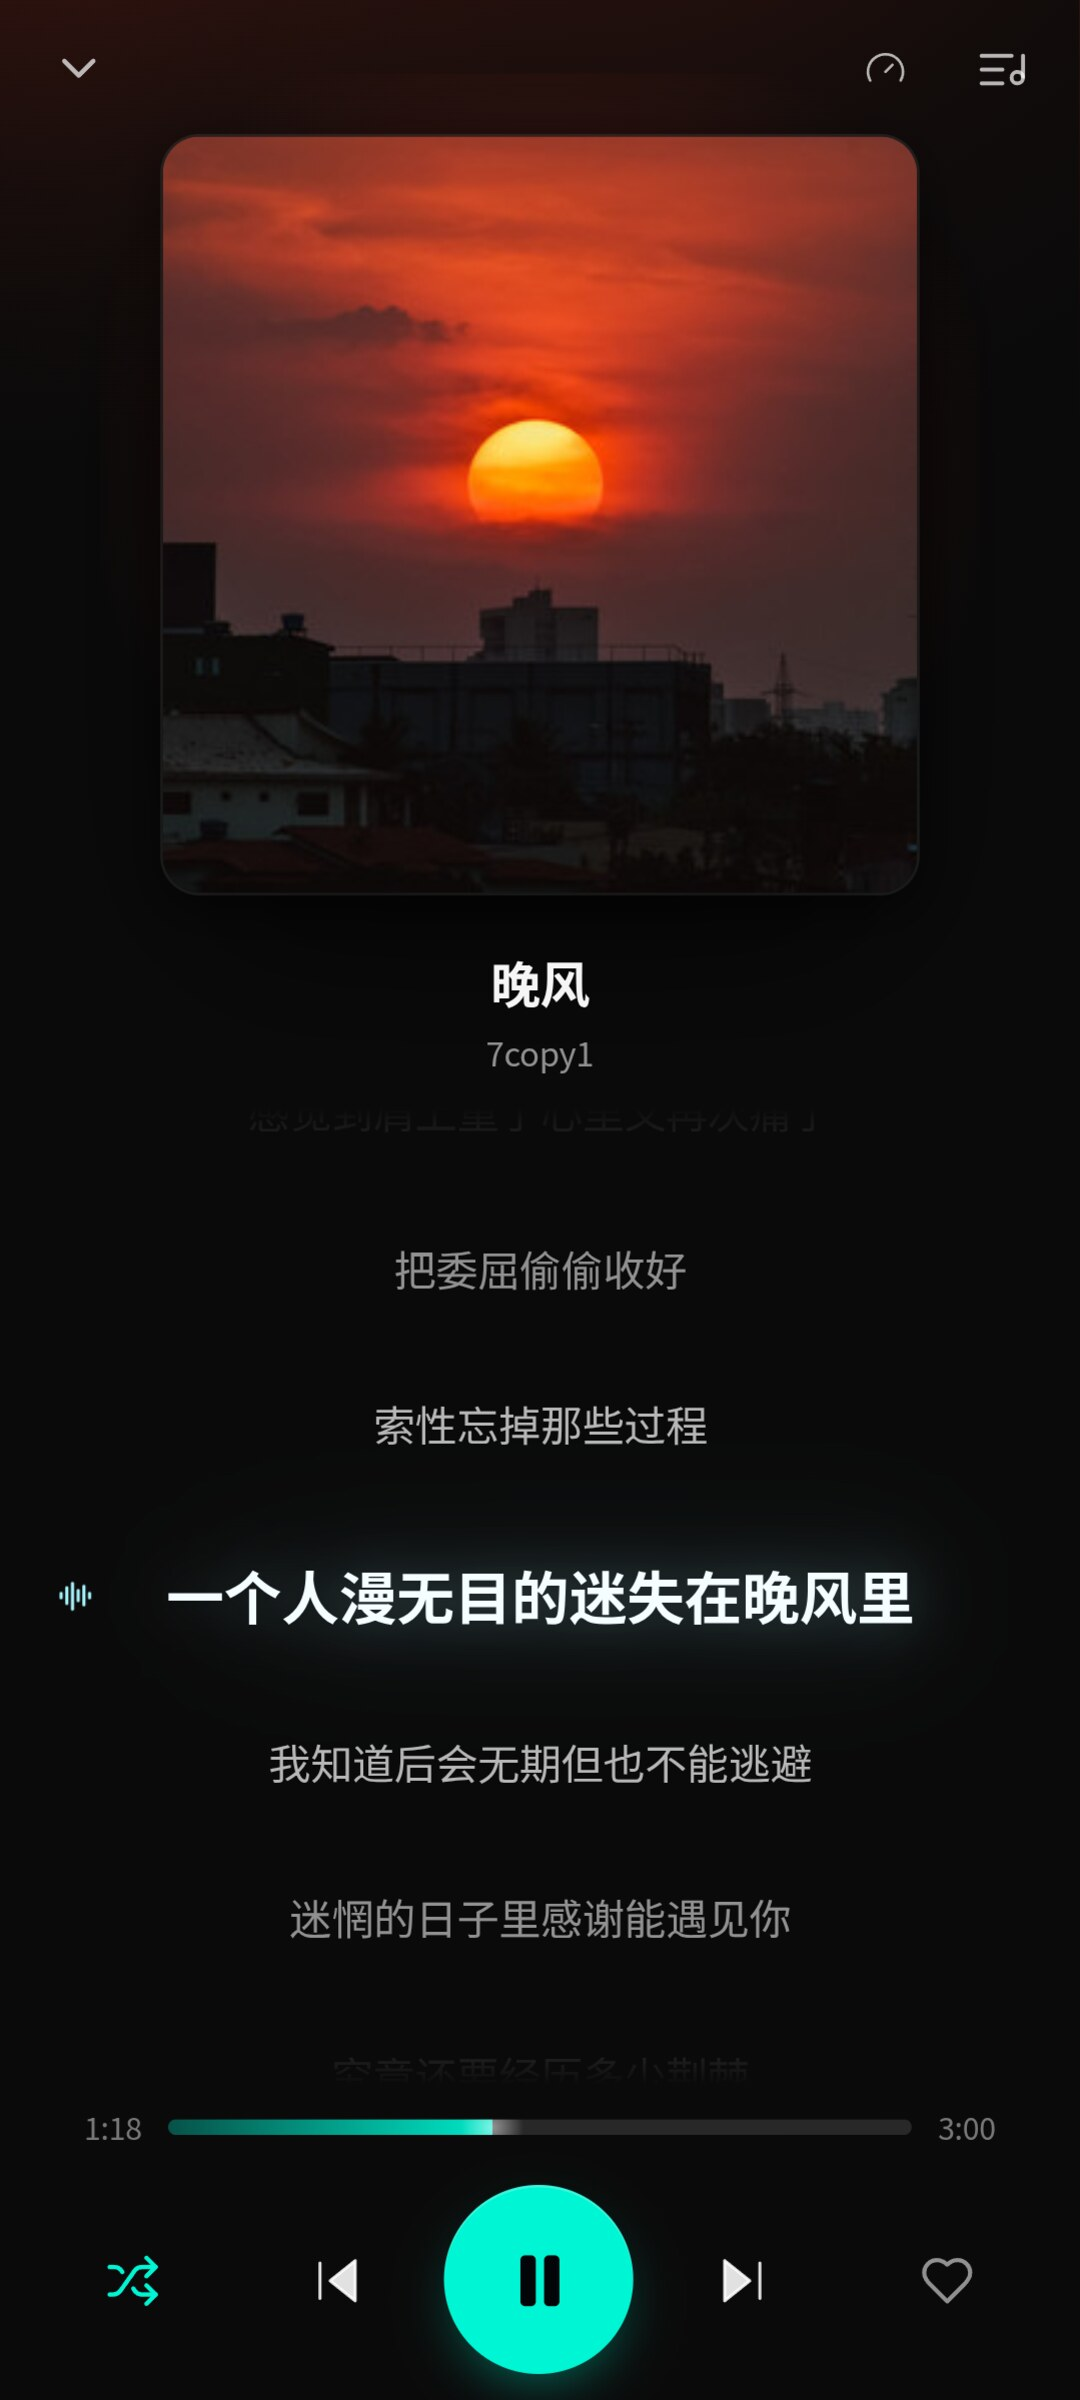
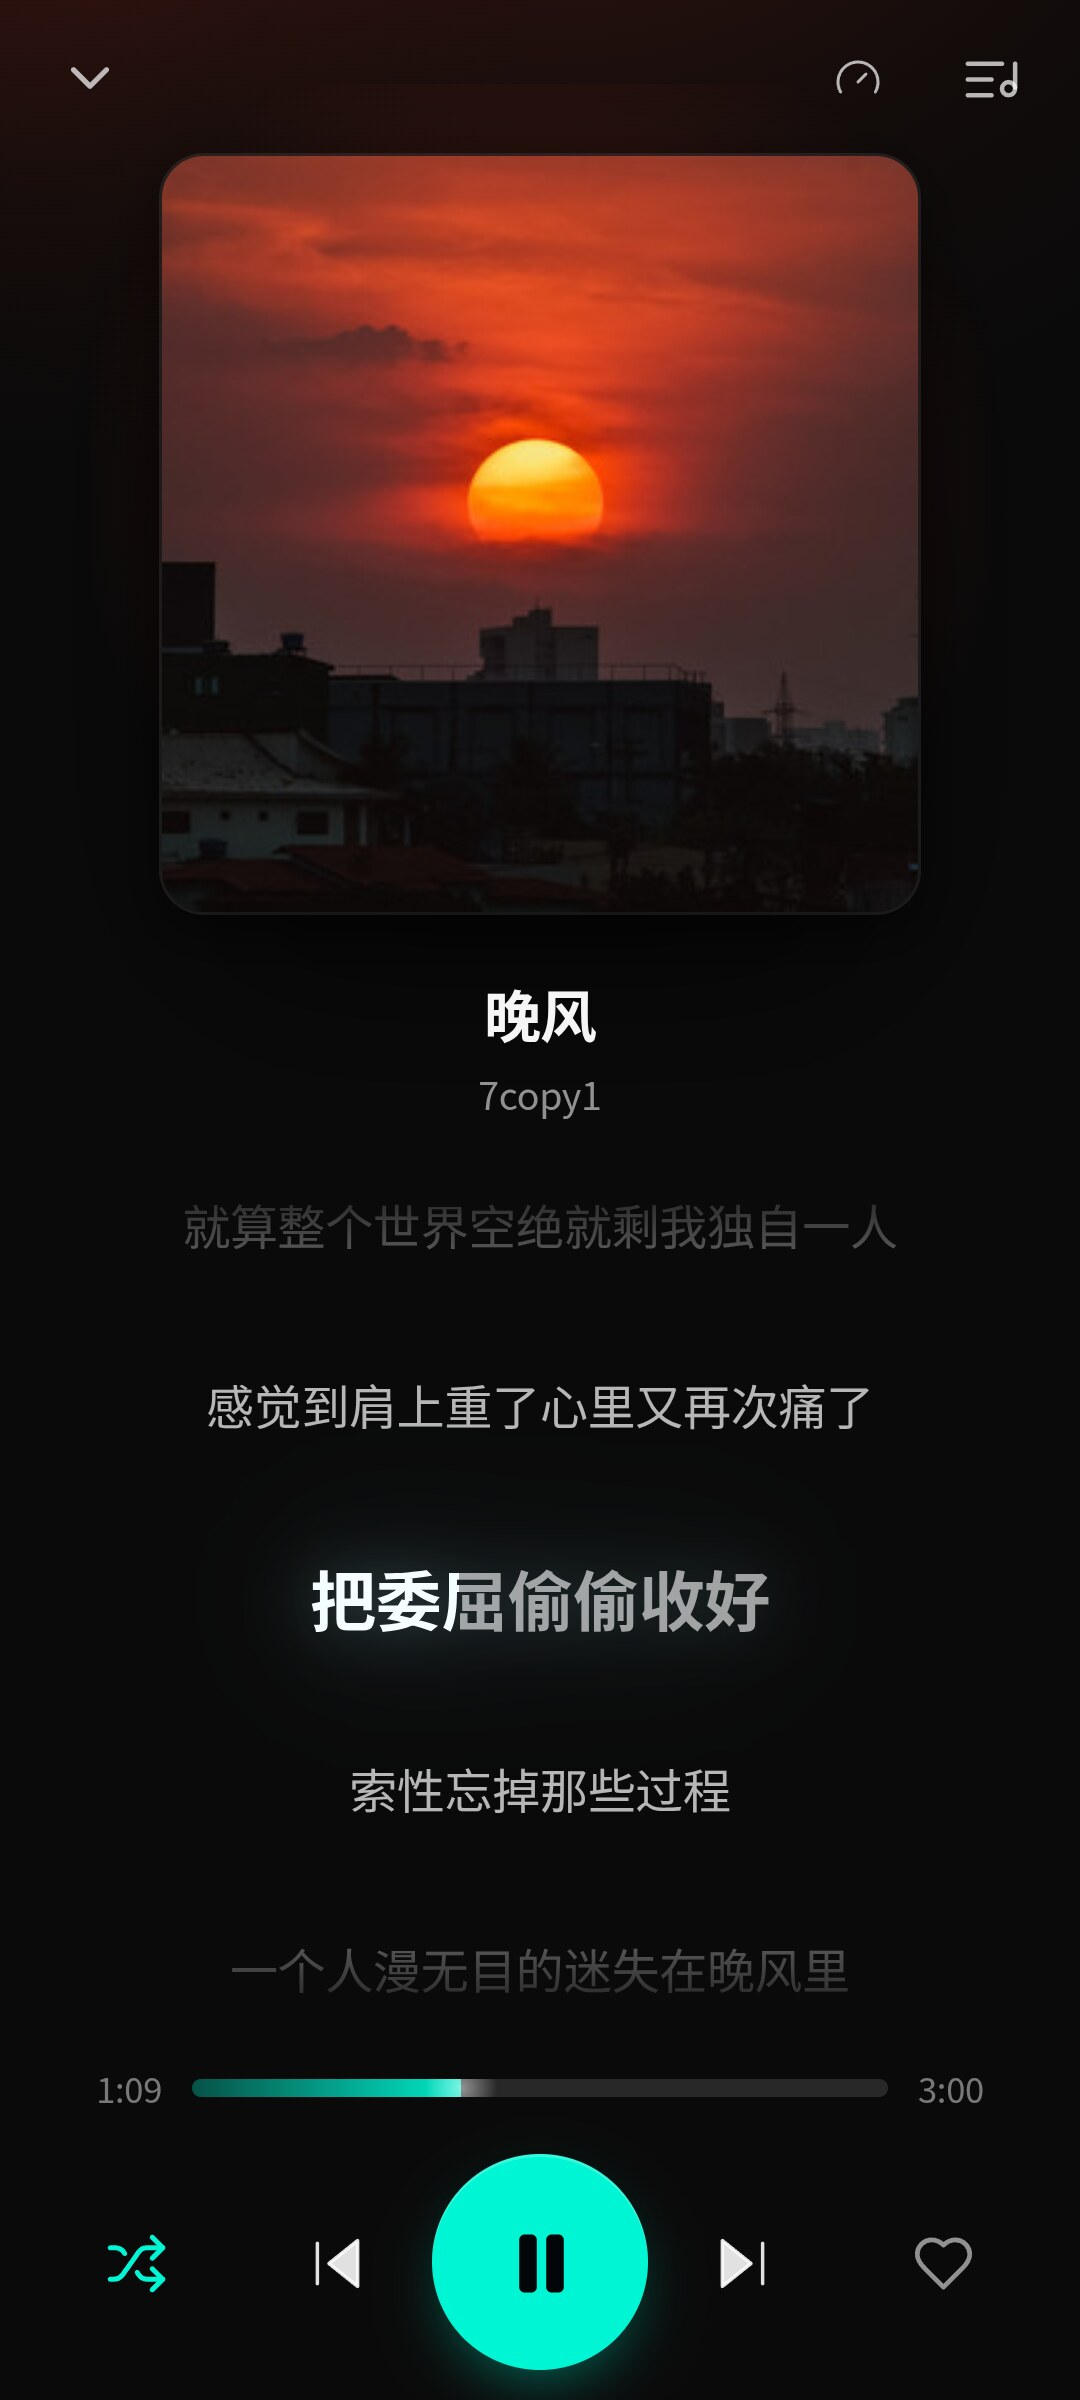
docs(readme): 重写中英 README 并把四张截图更新到 0.8.12
README 补齐这半年落地的能力与入口：曲库（本地/WebDAV/SMB/SFTP、加密音频）、
在线（协议源 + 洛雪脚本、聚合搜索兜底）、歌单与收藏同步（WebDAV / 局域网一键配对）、
播放（逐字歌词、音频焦点）、插件体系、应用内更新；新增「下载与安装」真产物表、
目录结构、文档索引与反馈入口。

截图重截：桌面三张 1440x960@2x 出 2400x1600（播放中、当前歌词行点亮），
移动端走 ?ui=mobile 真实外壳 360x800@3 出 1080x2400，曲目为真实的晚风/7copy1。

diff --git a/README.en.md b/README.en.md
@@ -6,6 +6,7 @@
   <strong>Aurora Music</strong> — a cross-platform music player for desktop (Linux / Windows / macOS) and Android, with one shared UI.<br/>
   The desktop app is Electron + React; the mobile app is packaged with Capacitor and hands playback to a native engine.<br/>
   <img src="https://img.shields.io/badge/license-PolyForm%20Noncommercial%201.0.0-blue" alt="PolyForm Noncommercial License 1.0.0">
+  <img src="https://img.shields.io/badge/platform-Linux%20%7C%20Windows%20%7C%20macOS%20%7C%20Android-lightgrey" alt="Platforms">
   &nbsp;·&nbsp; <a href="./README.md">中文说明</a>
 </p>
 
@@ -13,7 +14,7 @@
 
 ## Screenshots
 
-<p align="center"><img src="./screenshots/hall.jpg" width="760" alt="Discover"></p>
+<p align="center"><img src="./screenshots/hall.jpg" width="760" alt="Library"></p>
 
 <table align="center"><tr>
   <td><img src="./screenshots/detail.jpg" width="520" alt="Now playing"></td>
@@ -26,13 +27,30 @@
 
 ## Overview
 
-A player that brings its own library management, online search and multi-device sync: local folders and WebDAV both go into your collection, online playback uses the music source you configure, and playlists and favorites sync across devices.
+A player that brings its own library management, online search and multi-device sync: local folders, WebDAV and network storage all go into your collection, online playback uses the music source you configure, and playlists and favorites sync across devices.
 
-- **Library** — scan local folders or WebDAV media libraries, indexed progressively and playable offline
-- **Online** — search / preview / download / cache; bring your own source, either the HTTP protocol or an LX Music script, and a script-only setup can still search (built-in aggregate-search fallback)
-- **Playlists & favorites** — manage playlists, import and export M3U; sync across devices over WebDAV or direct LAN with one-tap pairing
-- **Playback** — LRC lyrics, queue with repeat / shuffle, speed control, sleep timer; configurable audio-focus behavior on both desktop and Android
-- **Consistent everywhere** — tray playback on desktop, foreground-service playback on Android; Simplified Chinese and English
+- **Library** — scan local folders, WebDAV or SMB / SFTP network storage; indexed progressively and playable offline, with a prompt (and a fresh copy) when an encrypted track turns up
+- **Online** — search / preview / download / cache; bring your own source, either an HTTP protocol source or an LX Music script, and a script-only setup can still search (built-in aggregate-search fallback), with cross-source address resolution and platform detection from the track URL
+- **Playlists & favorites** — manage playlists, import and export M3U; sync across devices over WebDAV or direct LAN, including one-tap pairing (the code never lands in your hands or on the wire), with per-track conflict handling for favorites
+- **Playback** — word-by-word LRC lyrics, spectrum visualizer, queue with repeat / shuffle, speed control, sleep timer; MPRIS and tray on desktop, foreground-service playback on Android, configurable audio-focus behavior on both
+- **Plugin system** — sources, storage and sync are all plugins; a missing capability is "method absent", never a shape check on the caller side
+- **Consistent everywhere** — one UI for desktop, phones and older in-car WebViews; Simplified Chinese and English, following the system locale
+- **Self-updating** — checks the latest GitHub release, matches the asset for your platform and verifies its sha256 before downloading
+
+---
+
+## Download
+
+Released builds live in [Releases](https://github.com/yib0601/aurora-music/releases):
+
+| Platform | Assets | Notes |
+| --- | --- | --- |
+| Linux | `.AppImage` / `.deb` / `.rpm` | AppImage is portable; the baseline is glibc 2.35 (Ubuntu 22.04) |
+| Windows | `Aurora-Music-<version>.exe` | NSIS installer, x64, install directory selectable |
+| macOS | `Aurora-Music-<version>-arm64.dmg` | Apple Silicon, ad-hoc signed — allow it once under Privacy & Security |
+| Android | `app-debug.apk` | Debug-signed; versionCode increases monotonically so it upgrades in place |
+
+"Settings → About" inside the app also checks for updates and fetches the matching asset.
 
 ---
 
@@ -46,9 +64,55 @@ pnpm dev              # desktop app (Electron + Vite HMR)
 pnpm dev:app          # web UI only
 ```
 
-Requirements: Node.js ≥ 20, pnpm ≥ 9.15; Android builds additionally need JDK 17+ and the Android SDK.
+Requirements: Node.js ≥ 20, pnpm 9.15 (pinned via `packageManager`); Android builds additionally need JDK 17+ and the Android SDK.
 
-The music-source protocol, playlist sync, plugin system, development and packaging are documented in [docs/](./docs/) (Chinese).
+Other entry points:
+
+```bash
+pnpm --filter @aurora/shared test    # source protocol, LX host and other pure logic
+pnpm --filter @aurora/app test       # renderer and mobile cache persistence
+pnpm --filter @aurora/app lint       # renderer eslint
+pnpm build:deb                       # build a deb (via build-deb.sh)
+pnpm build:android                   # build the release APK
+pnpm verify:webview                  # in-car WebView compatibility lock (build first)
+```
+
+See [docs/development.md](./docs/development.md) and [docs/desktop-packaging.md](./docs/desktop-packaging.md) for details (Chinese).
+
+---
+
+## Layout
+
+```
+packages/
+  app/       React renderer: pages, components, state, i18n bindings (desktop and mobile)
+  shared/    Cross-platform logic: source protocol, LX host, cover matching, encrypted audio, lyrics, i18n core
+  desktop/   Electron main: windows, tray, MPRIS, IPC, SQLite library
+  mobile/    Capacitor project plus the Android native playback service (Kotlin)
+docs/        Protocol and architecture documents (Chinese)
+```
+
+---
+
+## Docs
+
+| Document | What it covers |
+| --- | --- |
+| [music-sources.md](./docs/music-sources.md) | Source protocol: HTTP sources and LX scripts side by side |
+| [plugins.md](./docs/plugins.md) | Plugin contract: capability declaration and what a missing method means |
+| [plugin-system.md](./docs/plugin-system.md) | Plugin layering, origins and the install path |
+| [plugin-capabilities.md](./docs/plugin-capabilities.md) | What the host injects, and how the built-in source became a plugin |
+| [storage-protocols.md](./docs/storage-protocols.md) | Why SMB / SFTP are plugins rather than built-ins |
+| [playlist-sync.md](./docs/playlist-sync.md) | Playlist and favorite sync: WebDAV and direct LAN |
+| [i18n.md](./docs/i18n.md) | How copy is produced, passed and rendered |
+| [development.md](./docs/development.md) | Tests, lint, in-car WebView lock, packaging and release |
+| [design-system.md](./docs/design-system.md) / [style-sheet.md](./docs/style-sheet.md) | Design language and implementation-level style spec |
+
+---
+
+## Feedback
+
+Bugs and suggestions go to [Issues](https://github.com/yib0601/aurora-music/issues). For playback problems, include the track origin (local / WebDAV / which source) and the platform version — it saves a round trip.
 
 ---
 

diff --git a/README.md b/README.md
@@ -6,6 +6,7 @@
   <strong>Aurora Music</strong> — 跨平台音乐播放器，桌面（Linux / Windows / macOS）与 Android 同一套界面。<br/>
   桌面端 Electron + React，移动端 Capacitor 打包、原生播放引擎接管播放。<br/>
   <img src="https://img.shields.io/badge/license-PolyForm%20Noncommercial%201.0.0-blue" alt="PolyForm Noncommercial License 1.0.0">
+  <img src="https://img.shields.io/badge/platform-Linux%20%7C%20Windows%20%7C%20macOS%20%7C%20Android-lightgrey" alt="Platforms">
   &nbsp;·&nbsp; <a href="./README.en.md">English</a>
 </p>
 
@@ -26,14 +27,35 @@
 
 ## 简介
 
-一个自带曲库管理、在线搜索与多端同步的播放器：本地文件夹和 WebDAV 都能入库，
+一个自带曲库管理、在线搜索与多端同步的播放器：本地文件夹、WebDAV 与网络存储都能入库，
 在线听歌靠你配置的音源，歌单与收藏可以在多台设备间同步。
 
-- **曲库** — 扫描本地文件夹或 WebDAV 媒体库入库，渐进式扫描、离线可播
-- **在线** — 搜索 / 试听 / 下载 / 缓存；音源自配，支持协议源与洛雪脚本，只配脚本也能搜（内置「聚合搜索」兜底）
-- **歌单与收藏** — 歌单管理、M3U 导入导出；通过 WebDAV 或局域网直连在多设备间同步，局域网支持一键配对
-- **播放** — LRC 歌词、队列与循环 / 随机、变速、睡眠定时器；桌面与 Android 都可选择音频焦点行为
-- **多端一致** — 桌面托盘播放、Android 前台服务续播；简体中文 / English
+- **曲库** — 扫描本地文件夹、WebDAV 或 SMB / SFTP 网络存储入库；渐进式扫描、离线可播，
+  遇到加密音频会提示并按名重下一份明文副本
+- **在线** — 搜索 / 试听 / 下载 / 缓存；音源自配，支持 HTTP 协议源与洛雪脚本，
+  只配脚本也能搜（内置「聚合搜索」兜底），取址跨源、平台按曲目地址自动识别
+- **歌单与收藏** — 歌单管理、M3U 导入导出；经 WebDAV 或局域网直连在多设备间同步，
+  局域网支持一键配对（配对码不落手、不进明文网络），收藏按每首歌逐条比对冲突
+- **播放** — LRC 逐字歌词、频谱可视化、队列与循环 / 随机、变速、睡眠定时；
+  桌面走 MPRIS 与托盘，Android 走前台服务续播，两端都能配音频焦点行为
+- **插件体系** — 音源、存储、同步都是插件；缺哪个能力就报「方法不存在」，调用方不做形态判断
+- **多端一致** — 同一套界面适配桌面、手机与车机老 WebView；简体中文 / English 跟随系统
+- **自带更新** — 应用内检查 GitHub Releases 最新版，按当前系统匹配安装包并校验 sha256 后下载
+
+---
+
+## 下载与安装
+
+已发布版本见 [Releases](https://github.com/yib0601/aurora-music/releases)：
+
+| 平台 | 产物 | 说明 |
+| --- | --- | --- |
+| Linux | `.AppImage` / `.deb` / `.rpm` | AppImage 免安装；包基线固定 glibc 2.35（Ubuntu 22.04） |
+| Windows | `Aurora-Music-<版本>.exe` | NSIS 安装器，x64，可选安装目录 |
+| macOS | `Aurora-Music-<版本>-arm64.dmg` | Apple Silicon，ad-hoc 签名，首次启动需在「隐私与安全性」放行 |
+| Android | `app-debug.apk` | debug 签名；versionCode 单调递增，可直接覆盖升级 |
+
+应用内「设置 → 关于」也能检查更新并下载对应安装包。
 
 ---
 
@@ -47,9 +69,56 @@ pnpm dev              # 桌面端（Electron + Vite 热重载）
 pnpm dev:app          # 仅 Web UI
 ```
 
-需 Node.js ≥ 20、pnpm ≥ 9.15；Android 构建另需 JDK 17+ 与 Android SDK。
+需 Node.js ≥ 20、pnpm 9.15（`packageManager` 已锁定）；Android 构建另需 JDK 17+ 与 Android SDK。
 
-音源协议、歌单同步、插件体系、开发与打包细节见 [docs/](./docs/)。
+常用的其余入口：
+
+```bash
+pnpm --filter @aurora/shared test    # 音源协议、洛雪宿主等纯逻辑
+pnpm --filter @aurora/app test       # 渲染层与移动端缓存落盘
+pnpm --filter @aurora/app lint       # 渲染层 eslint
+pnpm build:deb                       # 打 deb 包（走 build-deb.sh）
+pnpm build:android                   # 打 release APK
+pnpm verify:webview                  # 车机老 WebView 兼容锁（需先 build）
+```
+
+细节见 [docs/development.md](./docs/development.md) 与 [docs/desktop-packaging.md](./docs/desktop-packaging.md)。
+
+---
+
+## 目录结构
+
+```
+packages/
+  app/       React 渲染层：页面、组件、状态、i18n 绑定（桌面与移动共用）
+  shared/    跨端纯逻辑：音源协议、洛雪宿主、封面匹配、加密音频、歌词、i18n 内核
+  desktop/   Electron 主进程：窗口、托盘、MPRIS、IPC、SQLite 曲库
+  mobile/    Capacitor 工程与 Android 原生播放服务（Kotlin）
+docs/        协议与体系文档（中文）
+```
+
+---
+
+## 文档
+
+| 文档 | 内容 |
+| --- | --- |
+| [music-sources.md](./docs/music-sources.md) | 音源协议：HTTP 协议源与洛雪脚本如何共存 |
+| [plugins.md](./docs/plugins.md) | 插件契约：能力声明、方法缺失的含义 |
+| [plugin-system.md](./docs/plugin-system.md) | 插件体系分层、来源与安装链路 |
+| [plugin-capabilities.md](./docs/plugin-capabilities.md) | 宿主向插件注入了什么，乐源如何插件化 |
+| [storage-protocols.md](./docs/storage-protocols.md) | 为什么 SMB / SFTP 走插件而不进本体 |
+| [playlist-sync.md](./docs/playlist-sync.md) | 歌单与收藏同步：WebDAV 与局域网直连 |
+| [i18n.md](./docs/i18n.md) | 文案从产生到渲染的三段式约束 |
+| [development.md](./docs/development.md) | 测试、lint、车机 WebView 兼容锁、打包发布 |
+| [design-system.md](./docs/design-system.md) / [style-sheet.md](./docs/style-sheet.md) | 设计语言与实现层样式规格 |
+
+---
+
+## 反馈
+
+问题与建议走 [Issues](https://github.com/yib0601/aurora-music/issues)；提播放相关问题时，
+附上曲目来源（本地 / WebDAV / 哪个音源）与平台版本，能省一轮来回。
 
 ---
 
